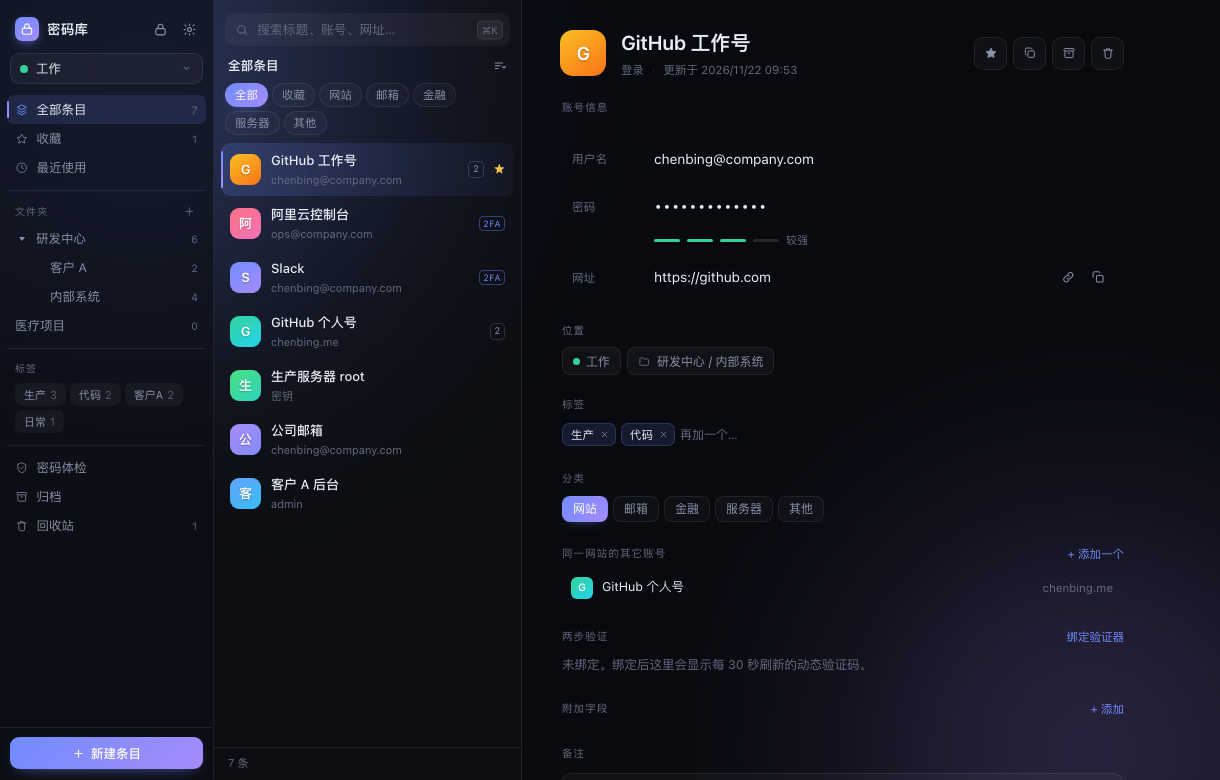
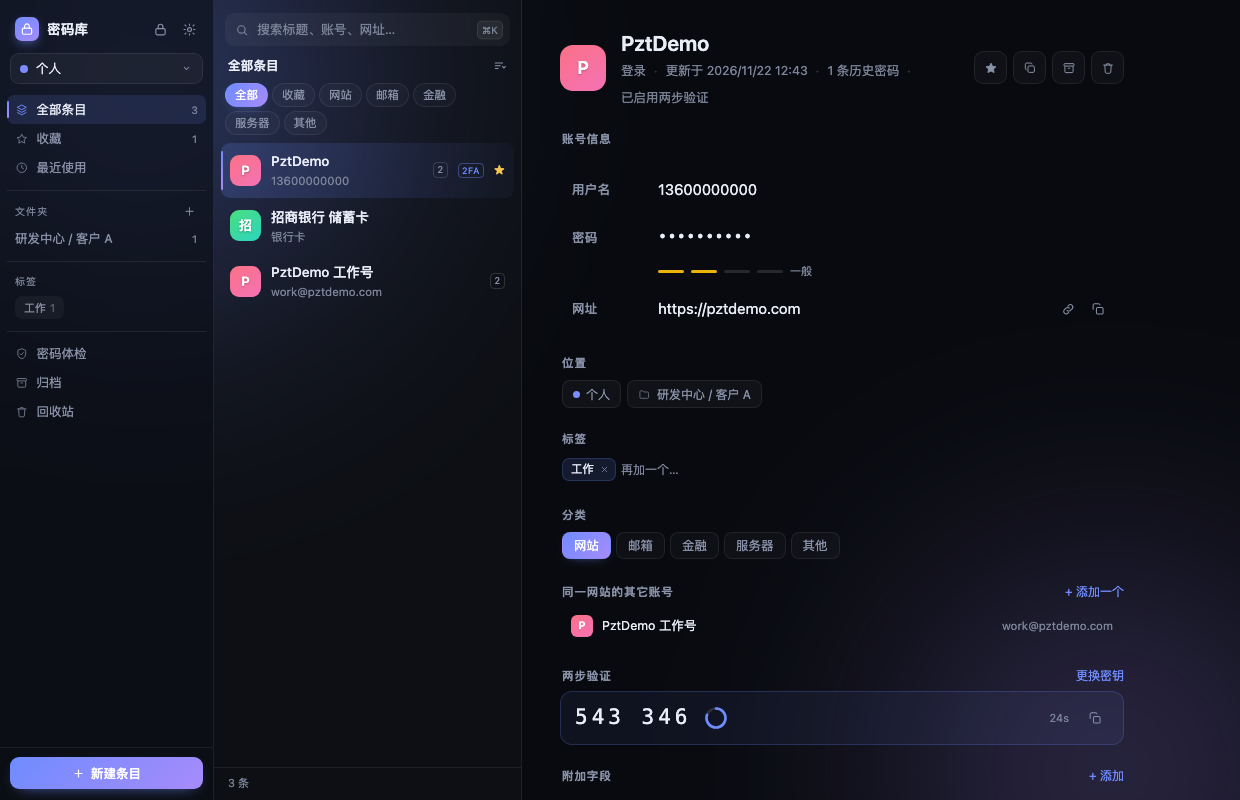
feat: 条目右键菜单 + 详情页字号/对比度调整
- 列表条目右键：收藏、归档、复制账号密码、移到回收站
- 文件夹右键调出原有文件夹菜单
- 屏蔽 WebView 自带右键菜单（输入框保留系统菜单）
- 详情页字段值 13.8→15px，字段名/分区标题加粗提亮，--faint 提亮
- 去掉 -webkit-font-smoothing: antialiased
- 版本号 1.2.2

diff --git a/src/style.css b/src/style.css
@@ -17,7 +17,7 @@
   --modal-2: rgba(17, 20, 29, 0.99);
   --text: #e9edf7;
   --muted: #8992a8;
-  --faint: #626b7f;
+  --faint: #7c8599;
   --accent: #6f8cff;
   --accent-2: #a78bfa;
   --accent-rgb: 111, 140, 255;
@@ -44,7 +44,7 @@
   --modal-2: rgba(16, 16, 18, 0.99);
   --text: #ececee;
   --muted: #9a9aa0;
-  --faint: #6b6b71;
+  --faint: #85858c;
   --accent: #e8e8ea;
   --accent-2: #b4b4ba;
   --accent-rgb: 232, 232, 234;
@@ -70,7 +70,7 @@
   --modal-2: rgba(10, 19, 15, 0.99);
   --text: #e4f0e9;
   --muted: #8aa396;
-  --faint: #5f7568;
+  --faint: #7b9285;
   --accent: #35d39b;
   --accent-2: #a3e635;
   --accent-rgb: 53, 211, 155;
@@ -96,7 +96,7 @@
   --modal-2: rgba(22, 14, 12, 0.99);
   --text: #f6ece7;
   --muted: #ad938a;
-  --faint: #7d655d;
+  --faint: #a08a80;
   --accent: #fb923c;
   --accent-2: #fb7185;
   --accent-rgb: 251, 146, 60;
@@ -122,7 +122,7 @@
   --modal-2: rgba(250, 251, 253, 1);
   --text: #171a22;
   --muted: #5b6478;
-  --faint: #8b93a5;
+  --faint: #737d90;
   --accent: #4f6ef7;
   --accent-2: #8b5cf6;
   --accent-rgb: 79, 110, 247;
@@ -148,7 +148,6 @@ body {
   background: var(--bg);
   color: var(--text);
   overflow: hidden;
-  -webkit-font-smoothing: antialiased;
   font-size: 14px;
   line-height: 1.5;
   cursor: default;
@@ -434,8 +433,8 @@ input, textarea { user-select: text; }
 [data-theme="mono"] .loc-chip .vdot { filter: grayscale(1); }
 
 .item-body { min-width: 0; flex: 1; }
-.item-title { font-size: 13px; font-weight: 500; white-space: nowrap; overflow: hidden; text-overflow: ellipsis; }
-.item-sub { font-size: 11px; color: var(--faint); white-space: nowrap; overflow: hidden; text-overflow: ellipsis; margin-top: 1px; }
+.item-title { font-size: 13.5px; font-weight: 500; white-space: nowrap; overflow: hidden; text-overflow: ellipsis; }
+.item-sub { font-size: 11.5px; color: var(--faint); white-space: nowrap; overflow: hidden; text-overflow: ellipsis; margin-top: 1px; }
 .star { color: var(--warn); flex: 0 0 auto; font-size: 11px; }
 .badge-otp {
   font-size: 9px; color: var(--accent); border: 1px solid rgba(var(--accent-rgb), 0.4);
@@ -461,13 +460,13 @@ input, textarea { user-select: text; }
 .detail-head { display: flex; align-items: center; gap: 15px; }
 .detail-head .avatar { width: 46px; height: 46px; border-radius: 13px; font-size: 18px; }
 .detail-title {
-  flex: 1; min-width: 0; font-size: 20px; font-weight: 600;
+  flex: 1; min-width: 0; font-size: 21px; font-weight: 600;
   background: transparent; border: none; outline: none; padding: 3px 0;
   border-bottom: 1px solid transparent; width: 100%; transition: border-color 0.15s;
 }
 .detail-title:hover { border-bottom-color: var(--border); }
 .detail-title:focus { border-bottom-color: var(--accent); }
-.detail-meta { font-size: 11.5px; color: var(--faint); margin-top: 3px; display: flex; gap: 8px; align-items: center; flex-wrap: wrap; }
+.detail-meta { font-size: 12.5px; color: var(--faint); margin-top: 3px; display: flex; gap: 8px; align-items: center; flex-wrap: wrap; }
 
 .head-tools { display: flex; gap: 6px; }
 .ghost-btn {
@@ -479,17 +478,17 @@ input, textarea { user-select: text; }
 .ghost-btn.danger:hover { color: var(--danger); border-color: rgba(255, 107, 107, 0.4); background: rgba(255, 107, 107, 0.08); }
 .ghost-btn svg { width: 14px; height: 14px; }
 .ghost-btn.icon-only { padding: 0; width: 33px; justify-content: center; }
-.ghost-btn.sm { height: 28px; padding: 0 9px; font-size: 12px; border-radius: 8px; }
+.ghost-btn.sm { height: 28px; padding: 0 9px; font-size: 12.5px; border-radius: 8px; }
 
 .rows { margin-top: 20px; display: flex; flex-direction: column; gap: 2px; }
 .row { display: flex; align-items: center; gap: 14px; padding: 9px 12px; border-radius: 11px; transition: background 0.14s; }
 .row:hover { background: rgba(var(--tint), 0.035); }
-.row-label { width: 68px; flex: 0 0 auto; font-size: 11.5px; color: var(--faint); letter-spacing: 0.3px; }
-.row-value { flex: 1; min-width: 0; font-size: 13.8px; word-break: break-all; padding: 2px 0; }
+.row-label { width: 72px; flex: 0 0 auto; font-size: 12.5px; color: var(--muted); letter-spacing: 0.2px; font-weight: 500; }
+.row-value { flex: 1; min-width: 0; font-size: 15px; line-height: 1.55; word-break: break-all; padding: 2px 0; }
 .row-value.mono { font-family: "SF Mono", "Cascadia Mono", Consolas, "JetBrains Mono", monospace; letter-spacing: 0.4px; }
 .row-input {
   flex: 1; min-width: 0; background: transparent; border: none; outline: none;
-  padding: 2px 0; font-size: 13.8px; border-bottom: 1px solid transparent;
+  padding: 2px 0; font-size: 15px; line-height: 1.55; border-bottom: 1px solid transparent;
 }
 .row-input:hover { border-bottom-color: var(--border); }
 .row-input:focus { border-bottom-color: var(--accent); }
@@ -506,7 +505,7 @@ input, textarea { user-select: text; }
 
 .type-picker { flex: 1; display: flex; gap: 5px; flex-wrap: wrap; padding: 2px 0 2px 2px; }
 .tp {
-  padding: 3.5px 10px; border-radius: 8px; font-size: 12px; color: var(--muted);
+  padding: 4px 11px; border-radius: 8px; font-size: 12.5px; color: var(--muted);
   border: 1px solid var(--border); background: rgba(var(--tint), 0.022); transition: all 0.14s;
 }
 .tp:hover { color: var(--text); border-color: var(--border-strong); }
@@ -519,18 +518,18 @@ input, textarea { user-select: text; }
 .notes {
   width: 100%; min-height: 96px; resize: vertical; padding: 12px 14px; border-radius: 12px;
   background: rgba(var(--tint), 0.032); border: 1px solid var(--border);
-  outline: none; line-height: 1.7; font-size: 13.5px;
+  outline: none; line-height: 1.75; font-size: 14.5px;
   transition: border-color 0.15s, background 0.15s;
 }
 .notes:focus { border-color: rgba(var(--accent-rgb), 0.5); background: rgba(var(--accent-rgb), 0.05); }
 .notes::placeholder { color: var(--faint); }
 
 .section-label {
-  font-size: 10.5px; color: var(--faint); letter-spacing: 1.1px;
+  font-size: 11.5px; color: var(--muted); letter-spacing: 0.9px; font-weight: 600;
   text-transform: uppercase; margin: 22px 0 7px 2px;
   display: flex; align-items: center; justify-content: space-between;
 }
-.section-label button { font-size: 11.5px; color: var(--accent); letter-spacing: 0; text-transform: none; }
+.section-label button { font-size: 12px; color: var(--accent); letter-spacing: 0; text-transform: none; }
 .section-label button:hover { text-decoration: underline; }
 
 /* 验证码 */
@@ -641,7 +640,7 @@ input, textarea { user-select: text; }
 .menu-pop button.danger:hover { background: rgba(255, 107, 107, 0.1); }
 .menu-pop button .chk { margin-left: auto; color: var(--accent); font-size: 11px; }
 .menu-pop .sep { height: 1px; background: var(--border); margin: 4px 2px; }
-.menu-pop .pop-label { font-size: 10px; letter-spacing: 1px; color: var(--faint); padding: 5px 9px 3px; text-transform: uppercase; }
+.menu-pop .pop-label { font-size: 11px; letter-spacing: 0.4px; color: var(--faint); padding: 5px 9px 3px; font-weight: 600; overflow: hidden; text-overflow: ellipsis; white-space: nowrap; }
 
 /* ================= 审计 / 回收站 ================= */
 .view-head { display: flex; align-items: flex-start; justify-content: space-between; gap: 16px; margin-bottom: 22px; }

diff --git a/src/app.js b/src/app.js
@@ -731,7 +731,9 @@ function showMenu(anchor, items) {
   }).join('');
   pop.classList.remove('hidden');
 
-  const r = anchor.getBoundingClientRect();
+  const r = (anchor && typeof anchor.x === 'number')
+    ? { left: anchor.x, right: anchor.x, top: anchor.y, bottom: anchor.y }
+    : anchor.getBoundingClientRect();
   const w = pop.offsetWidth;
   const h = pop.offsetHeight;
   let left = r.left;
@@ -872,6 +874,31 @@ document.addEventListener('click', (e) => {
   }
 });
 
+/* ---------------- 右键菜单 ---------------- */
+document.addEventListener('contextmenu', (e) => {
+  const itemEl = e.target.closest('#list .item[data-id]');
+  if (itemEl) {
+    e.preventDefault();
+    const it = state.items.find((x) => x.id === itemEl.dataset.id);
+    if (!it) return;
+    selectItem(it.id);
+    openItemMenu(it, e.clientX, e.clientY);
+    return;
+  }
+
+  const fEl = e.target.closest('#folder-tree .nav-item[data-scope="folder"]');
+  if (fEl) {
+    e.preventDefault();
+    openFolderMenu(fEl, fEl.dataset.sid, 'folder');
+    return;
+  }
+
+  /* 输入框保留系统粘贴菜单，其它位置屏蔽 WebView 自带的 Reload 菜单 */
+  if (e.target.closest('input, textarea, [contenteditable="true"]')) return;
+  e.preventDefault();
+  hideMenu();
+});
+
 function openFolderMenu(anchor, id, kind) {
   const f = folderById(id);
   if (!f) return;
@@ -883,6 +910,34 @@ function openFolderMenu(anchor, id, kind) {
     { sep: true },
     { text: '删除文件夹', danger: true, onClick: () => deleteFolder(f.id) },
   ]);
+}
+
+/* 条目右键菜单：收藏 / 归档 / 删除 */
+function openItemMenu(item, x, y) {
+  const entries = [
+    { label: item.title || '未命名' },
+    {
+      text: item.favorite ? '取消收藏' : '收藏',
+      icon: item.favorite ? ICONS.starOn : ICONS.star,
+      onClick: () => toggleFavorite(item),
+    },
+    {
+      text: item.archivedAt ? '取消归档' : '归档',
+      icon: ICONS.archive,
+      onClick: () => toggleArchive(item),
+    },
+  ];
+
+  if (item.kind === 'login') {
+    entries.push({ sep: true });
+    if (item.username) entries.push({ text: '复制用户名', icon: ICONS.copy, onClick: () => copyText(item.username, '用户名已复制') });
+    if (item.password) entries.push({ text: '复制密码', icon: ICONS.copy, onClick: () => copySecret(item.password) });
+  }
+
+  entries.push({ sep: true });
+  entries.push({ text: '移到回收站', icon: ICONS.trash, danger: true, onClick: () => deleteItem(item) });
+
+  showMenu({ x, y }, entries);
 }
 
 function renderFilters() {
@@ -1585,22 +1640,7 @@ function bindDetail(item, isLogin) {
     $('#f-fav').innerHTML = item.favorite ? ICONS.starOn : ICONS.star;
   });
 
-  $('#f-del').addEventListener('click', async () => {
-    const ok = await confirmDialog({
-      title: '移到回收站？',
-      desc: `「${escapeHtml(item.title || '未命名')}」会被移到回收站，可以随时恢复。`,
-      okText: '移到回收站',
-      danger: true,
-    });
-    if (!ok) return;
-    item.deletedAt = Date.now();
-    persist(true);
-    const next = visibleItems()[0];
-    state.selectedId = next ? next.id : null;
-    renderList();
-    renderDetail();
-    toast('已移到回收站');
-  });
+  $('#f-del').addEventListener('click', () => deleteItem(item));
 
   $('#add-field').addEventListener('click', async () => {
     const r = await promptDialog({
@@ -1704,6 +1744,34 @@ function duplicateItem(item, asNewAccount) {
   toast(asNewAccount ? '已为同一网站新建账号，填上用户名即可' : '已复制条目', 'ok');
 }
 
+function toggleFavorite(item) {
+  item.favorite = !item.favorite;
+  item.updatedAt = Date.now();
+  persist();
+  renderList();
+  renderDetail();
+  toast(item.favorite ? '已收藏' : '已取消收藏', 'ok');
+}
+
+async function deleteItem(item) {
+  const ok = await confirmDialog({
+    title: '移到回收站？',
+    desc: `「${escapeHtml(item.title || '未命名')}」会被移到回收站，可以随时恢复。`,
+    okText: '移到回收站',
+    danger: true,
+  });
+  if (!ok) return;
+  item.deletedAt = Date.now();
+  item.updatedAt = Date.now();
+  persist(true);
+  const next = visibleItems()[0];
+  state.selectedId = next ? next.id : null;
+  renderNav();
+  renderList();
+  renderDetail();
+  toast('已移到回收站');
+}
+
 function toggleArchive(item) {
   item.archivedAt = item.archivedAt ? null : Date.now();
   item.updatedAt = Date.now();
@@ -1732,7 +1800,7 @@ function renderOtpArea(item) {
   const box = $('#otp-area');
   if (!box) return;
   if (!item.otp) {
-    box.innerHTML = `<div style="font-size:12.5px;color:var(--faint);padding:4px 2px">未绑定。绑定后这里会显示每 30 秒刷新的动态验证码。</div>`;
+    box.innerHTML = `<div style="font-size:13.5px;color:var(--muted);padding:4px 2px;line-height:1.7">未绑定。绑定后这里会显示每 30 秒刷新的动态验证码。</div>`;
     return;
   }
   const C = 2 * Math.PI * 9.5;
@@ -1770,7 +1838,7 @@ function renderFieldRows(item, isLogin) {
   if (primary) {
     const hint = item.kind === 'note'
       ? ''
-      : `<div style="color:var(--faint);font-size:12.5px;padding:6px 12px">还没有字段，点下方「添加」补充。</div>`;
+      : `<div style="color:var(--muted);font-size:13.5px;padding:6px 12px">还没有字段，点下方「添加」补充。</div>`;
     primary.innerHTML = item.fields.map((f, i) => rowHtml(f, i)).join('') || hint;
   }
   if (extra) {
@@ -2267,7 +2335,7 @@ $('#menu-btn').addEventListener('click', async () => {
         <div class="backup-row">
           <span>${escapeHtml(b.name.replace('vault-', '').replace('.dat', ''))} · ${(b.size / 1024).toFixed(1)} KB</span>
           <button data-restore-bk="${escapeHtml(b.name)}">恢复</button>
-        </div>`).join('') : '<div style="color:var(--faint);font-size:12px;padding:8px 2px">首次保存后会自动生成</div>'}
+        </div>`).join('') : '<div style="color:var(--muted);font-size:13px;padding:8px 2px">首次保存后会自动生成</div>'}
     </div>
 
     <div class="modal-actions">

diff --git a/changelog.md b/changelog.md
@@ -1,5 +1,44 @@
 # 更新记录
 
+## v1.2.2 — 右键菜单 + 字号调大（2026-11-22）
+
+这一版处理两件使用中的不适：**想快速处理条目要先进详情页**，以及**详情页的字看着发虚**。
+
+### 新增：条目右键菜单
+
+在列表任意条目上点右键，就地弹出菜单：
+
+| 菜单项 | 说明 |
+| --- | --- |
+| 收藏 / 取消收藏 | 按当前状态切换文案 |
+| 归档 / 取消归档 | 归档后从列表收起，仍可恢复 |
+| 复制用户名 / 复制密码 | 只在登录类型且有值时才出现，走原有的「剪贴板定时清空」逻辑 |
+| 移到回收站 | 危险项，红色，仍需二次确认 |
+
+- 菜单跟随鼠标位置弹出，超出窗口边缘会自动翻转
+- 右键会顺带选中该条目，右侧详情同步切过去
+- 文件夹也能右键，直接调出「新建子文件夹 / 重命名 / 移动 / 删除」
+- 顺手屏蔽了 WebView 自带的右键菜单（之前在任何地方右键都会冒出系统级的 Reload 项）；**输入框内保留系统菜单**，粘贴不受影响
+
+### 修复：详情页文字发虚
+
+| 位置 | 原来 | 现在 |
+| --- | --- | --- |
+| 字段值（用户名 / 网址等） | 13.8px | 15px，行高 1.55 |
+| 字段名 | 11.5px、最淡的灰 | 12.5px、加粗、换成中灰 `--muted` |
+| 分区标题（账号信息 / 位置 / 标签…） | 10.5px | 11.5px + 600 字重 |
+| 详情页顶部元信息 | 11.5px | 12.5px |
+| 备注框 | 13.5px | 14.5px |
+| 列表条目标题 / 副标题 | 13 / 11px | 13.5 / 11.5px |
+
+另外：
+
+- 五套主题的 `--faint`（最淡那档文字色）统一提亮，深色主题从 `#626b7f` 提到 `#7c8599` 一类，亮色主题反向压深，小字不再糊在背景里
+- 去掉 `-webkit-font-smoothing: antialiased`：macOS 上这行会让小字变细发虚，交回系统渲染更清晰
+- 英文标题在菜单里不再被强制大写（`PztDemo` 不会变成 `PZTDEMO`）
+
+---
+
 ## v1.2.1 — 修复「＋」无响应（2026-11-22）
 
 侧栏「文件夹」标题右侧的 `＋` 按钮此前只是摆设：HTML 里画了按钮、CSS 里给了 hover 效果，但 `app.js` 里从未绑定点击事件，所以点下去毫无反应（新装用户没有文件夹时最容易踩到）。

diff --git a/README.md b/README.md
@@ -1,4 +1,4 @@
-# 密码库（Vault）v1.2
+# 密码库（Vault）v1.2.2
 
 一个完全离线的本地密码管理器。数据只存在你自己的电脑上，不联网、不上传、不需要任何账号。
 
@@ -20,6 +20,7 @@
 - **同一网站多账号**：列表里同站点的记录会显示账号数徽标（如 `2`），详情页直接列出该网站的其它账号，一键切换；点「复制」图标即可为同一网站新建第二个账号
 - **归档**：暂时不用的记录收进归档，不占列表也不删除，随时恢复
 - **最近使用**：按打开时间排序最近 20 条
+- **右键菜单**：在列表条目上右键，直接收藏 / 归档 / 复制账号密码 / 移到回收站，不用先点开详情
 
 **条目管理**
 - 5 种类型：登录、银行卡、身份信息、API 密钥、安全笔记（各自预置好字段）
